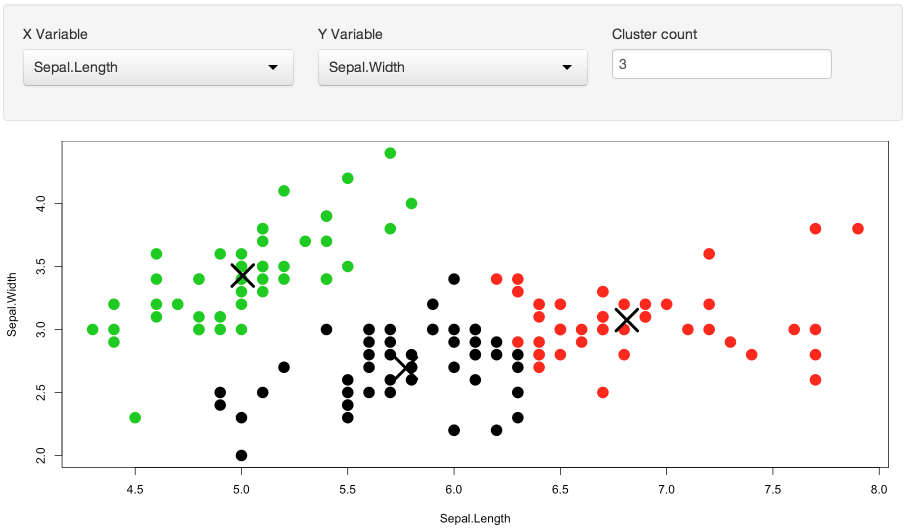
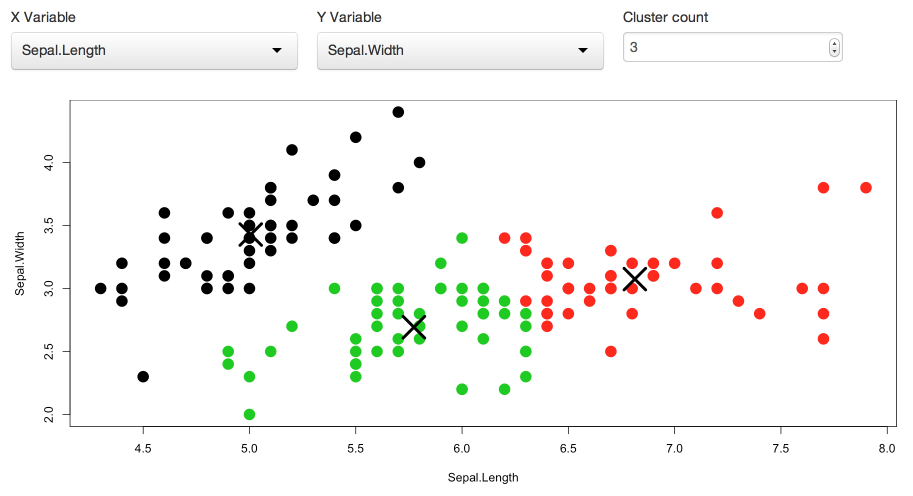
revise shiny widget docs

diff --git a/developer_shiny_widgets.html b/developer_shiny_widgets.html
@@ -137,6 +137,15 @@ body {
 <h1 class="title">Shiny Widgets</h1>
 </div>
 
+<div id="TOC">
+<ul>
+<li><a href="#creating-a-shiny-widget">Creating a Shiny Widget</a><ul>
+<li><a href="#the-shinyapp-function">The shinyApp Function</a></li>
+<li><a href="#example-k-means-cluster">Example: K Means Cluster</a></li>
+<li><a href="#widget-size-and-layout">Widget Size and Layout</a></li>
+</ul></li>
+</ul>
+</div>
 
 <p>Shiny widgets enable you to create re-usable Shiny components that are included within an R Markdown document using a single function call. Shiny widgets can also be invoked directly from the console (useful during authoring) and show their output within the RStudio Viewer pane or an external web browser.</p>
 <div id="prerequisties" class="section level4">
@@ -146,26 +155,26 @@ body {
 </div>
 <div id="creating-a-shiny-widget" class="section level2">
 <h2>Creating a Shiny Widget</h2>
+<div id="the-shinyapp-function" class="section level3">
+<h3>The shinyApp Function</h3>
 <p>At their core Shiny widgets are mini-applications created using the <code>shinyApp</code> function. Rather than create a <code>ui.R</code> and <code>server.R</code> as you would for a typical Shiny application, you pass the ui and server definitions to the <code>shinyApp</code> function as arguments. For example:</p>
 <pre class="r"><code>shinyApp(
-  
-  ui = fluidPage(
+  ui = fluidPage(responsive = FALSE,
     selectInput(&quot;region&quot;, &quot;Region:&quot;, choices = colnames(WorldPhones)),
     plotOutput(&quot;phonePlot&quot;)
   ),
-  
   server = function(input, output) {
     output$phonePlot &lt;- renderPlot({
       barplot(WorldPhones[,input$region]*1000, 
               ylab = &quot;Number of Telephones&quot;, xlab = &quot;Year&quot;)
     })
   },
-  
   options = list(height = 500)
 )</code></pre>
 <p>The simplest type of Shiny widget is just an R function that returns a <code>shinyApp</code>.</p>
-<div id="example" class="section level3">
-<h3>Example</h3>
+</div>
+<div id="example-k-means-cluster" class="section level3">
+<h3>Example: K Means Cluster</h3>
 <p>The <a href="https://github.com/rstudio/rmdexamples"><strong>rmdexamples</strong></a> package includes an example of Shiny widget implemented in this fashion. The <a href="https://github.com/rstudio/rmdexamples/blob/master/R/kmeans_cluster.R"><code>kmeans_cluster</code></a> function takes a single “dataset” argument and returns a Shiny widget. You can use it within an R Markdown document like this:</p>
 <pre class="markdown"><code>&#96;&#96;&#96;{r, echo = FALSE}
 library(rmdexamples)
@@ -183,17 +192,16 @@ kmeans_cluster(iris)
   require(shiny)  
   
   shinyApp(
-  
-    ui = fluidPage(
-      wellPanel(fluidRow(
+    ui = fluidPage(responsive = FALSE,
+      fluidRow(style = &quot;padding-bottom: 20px;&quot;,
         column(4, selectInput(&#39;xcol&#39;, &#39;X Variable&#39;, names(dataset))),
         column(4, selectInput(&#39;ycol&#39;, &#39;Y Variable&#39;, names(dataset),
                               selected=names(dataset)[[2]])),
         column(4, numericInput(&#39;clusters&#39;, &#39;Cluster count&#39;, 3,
                                min = 1, max = 9))
-      )),
+      ),
       fluidRow(
-        plotOutput(&#39;kmeans&#39;)  
+        plotOutput(&#39;kmeans&#39;, height = &quot;400px&quot;)  
       )
     ),
     
@@ -208,7 +216,7 @@ kmeans_cluster(iris)
         kmeans(selectedData(), input$clusters)
       })
       
-      output$kmeans &lt;- renderPlot({
+      output$kmeans &lt;- renderPlot(height = 400, {
         par(mar = c(5.1, 4.1, 0, 1))
         plot(selectedData(),
              col = clusters()$cluster,
@@ -217,12 +225,22 @@ kmeans_cluster(iris)
       })
     },
     
-    options = list(height = 550)
+    options = list(height = 500)
   )
 }</code></pre>
+</div>
+</div>
+<div id="widget-size-and-layout" class="section level3">
+<h3>Widget Size and Layout</h3>
+<p>Shiny widgets may be embedded in various places including standard full width pages, smaller columns within pages, and even HTML5 presentations. The following guidelines will help ensure that widget size and layout works well in all of these contexts:</p>
+<ol style="list-style-type: decimal">
+<li><p>Use <code>fluidPage</code> with the <code>responsive = FALSE</code> parameter. This ensures that as the width of a widget gets smaller that elements within it scale smaller as well (and don’t wrap).</p></li>
+<li><p>Ensure that the total height of the widget is no larger than 500 pixels. This isn’t a hard and fast rule, but HTML5 slides can typically only display content &lt;= 500px so if you want your widget to be usable within presentations this is a good guideline to follow.</p></li>
+</ol>
+<p>The example above follows both of these guidelines, specifying a total height of 500px and a height of 400px for the plot (to leave room for the controls above it). Note that height should be specified both on the <code>plotOutput</code> call as well as the <code>renderPlot</code> call.</p>
+<p>Another approach would be to add an explicit height parameter to the function which creates the widget (default to 500 so it works well within slides).</p>
 <div class="references">
 
-</div>
 </div>
 </div>
 </div>

diff --git a/developer_html_widgets.html b/developer_html_widgets.html
@@ -137,6 +137,18 @@ body {
 <h1 class="title">HTML Widgets</h1>
 </div>
 
+<div id="TOC">
+<ul>
+<li><a href="#creating-an-html-widget">Creating an HTML Widget</a><ul>
+<li><a href="#generating-html">Generating HTML</a></li>
+<li><a href="#specifying-dependencies">Specifying Dependencies</a></li>
+</ul></li>
+<li><a href="#examples">Examples</a><ul>
+<li><a href="#justgage">JustGage</a></li>
+<li><a href="#datatables">DataTables</a></li>
+</ul></li>
+</ul>
+</div>
 
 <p>HTML widgets enable you to add new types of HTML output to R Markdown documents. You might want to do this to add a binding between R and a Javascript data visualization library like <a href="http://d3js.org">d3</a> or <a href="http://leafletjs.com">Leaflet</a>. HTML widgets create output that works both inside R Markdown documents as well as while executing code from the console (e.g. to display within the RStudio Viewer).</p>
 <div id="prerequisties" class="section level4">

diff --git a/developer_shiny_widgets.md b/developer_shiny_widgets.md
@@ -1,5 +1,9 @@
 ---
 title: "Shiny Widgets"
+output: 
+  html_document:
+    toc: true
+    toc_depth: 3
 ---
 
 Shiny widgets enable you to create re-usable Shiny components that are included within an R Markdown document using a single function call. Shiny widgets can also be invoked directly from the console (useful during authoring) and show their output within the RStudio Viewer pane or an external web browser.
@@ -14,30 +18,29 @@ devtools::install_github(c("yihui/knitr", "rstudio/shiny", "rstudio/rmarkdown"))
 
 ## Creating a Shiny Widget
 
+### The shinyApp Function
+
 At their core Shiny widgets are mini-applications created using the `shinyApp` function. Rather than create a `ui.R` and `server.R` as you would for a typical Shiny application, you pass the ui and server definitions to the `shinyApp` function as arguments. For example:
 
 ```r
 shinyApp(
-  
-  ui = fluidPage(
+  ui = fluidPage(responsive = FALSE,
     selectInput("region", "Region:", choices = colnames(WorldPhones)),
     plotOutput("phonePlot")
   ),
-  
   server = function(input, output) {
     output$phonePlot <- renderPlot({
       barplot(WorldPhones[,input$region]*1000, 
               ylab = "Number of Telephones", xlab = "Year")
     })
   },
-  
   options = list(height = 500)
 )
 ```
 
 The simplest type of Shiny widget is just an R function that returns a `shinyApp`.
 
-### Example
+### Example: K Means Cluster
 
 The [**rmdexamples**](https://github.com/rstudio/rmdexamples) package includes an example of Shiny widget implemented in this fashion. The [`kmeans_cluster`](https://github.com/rstudio/rmdexamples/blob/master/R/kmeans_cluster.R) function takes a single "dataset" argument and returns a Shiny widget. You can use it within an R Markdown document like this:
 
@@ -61,17 +64,16 @@ kmeans_cluster <- function(dataset) {
   require(shiny)  
   
   shinyApp(
-  
-    ui = fluidPage(
-      wellPanel(fluidRow(
+    ui = fluidPage(responsive = FALSE,
+      fluidRow(style = "padding-bottom: 20px;",
         column(4, selectInput('xcol', 'X Variable', names(dataset))),
         column(4, selectInput('ycol', 'Y Variable', names(dataset),
                               selected=names(dataset)[[2]])),
         column(4, numericInput('clusters', 'Cluster count', 3,
                                min = 1, max = 9))
-      )),
+      ),
       fluidRow(
-        plotOutput('kmeans')  
+        plotOutput('kmeans', height = "400px")  
       )
     ),
     
@@ -86,7 +88,7 @@ kmeans_cluster <- function(dataset) {
         kmeans(selectedData(), input$clusters)
       })
       
-      output$kmeans <- renderPlot({
+      output$kmeans <- renderPlot(height = 400, {
         par(mar = c(5.1, 4.1, 0, 1))
         plot(selectedData(),
              col = clusters()$cluster,
@@ -95,7 +97,20 @@ kmeans_cluster <- function(dataset) {
       })
     },
     
-    options = list(height = 550)
+    options = list(height = 500)
   )
 }
 ```
+
+### Widget Size and Layout
+
+Shiny widgets may be embedded in various places including standard full width pages, smaller columns within pages, and even HTML5 presentations. The following guidelines will help ensure that widget size and layout works well in all of these contexts:
+
+1) Use `fluidPage` with the `responsive = FALSE` parameter. This ensures that as the width of a widget gets smaller that elements within it scale smaller as well (and don't wrap).
+
+2) Ensure that the total height of the widget is no larger than 500 pixels. This isn't a hard and fast rule, but HTML5 slides can typically only display content <= 500px so if you want your widget to be usable within presentations this is a good guideline to follow.
+
+The example above follows both of these guidelines, specifying a total height of 500px and a height of 400px for the plot (to leave room for the controls above it). Note that height should be specified both on the `plotOutput` call as well as the `renderPlot` call.
+
+Another approach would be to add an explicit height parameter to the function which creates the widget (default to 500 so it works well within slides).
+
